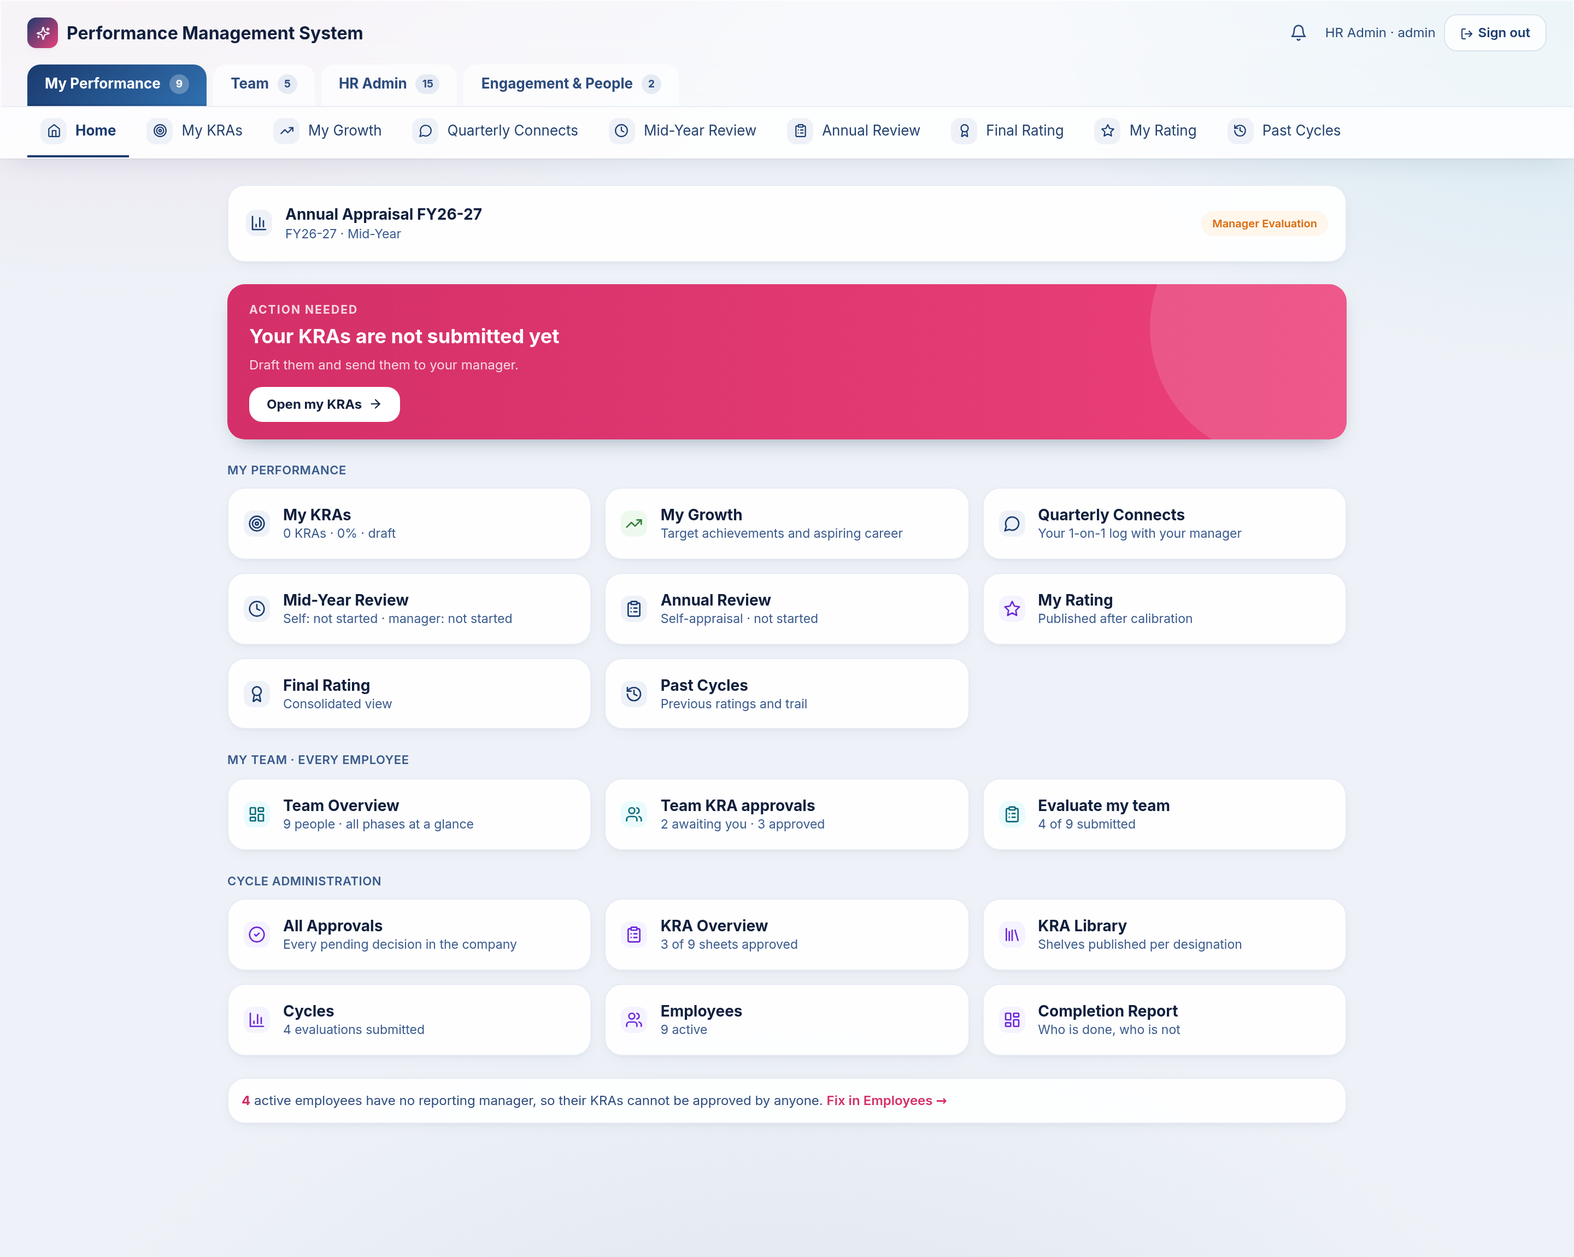
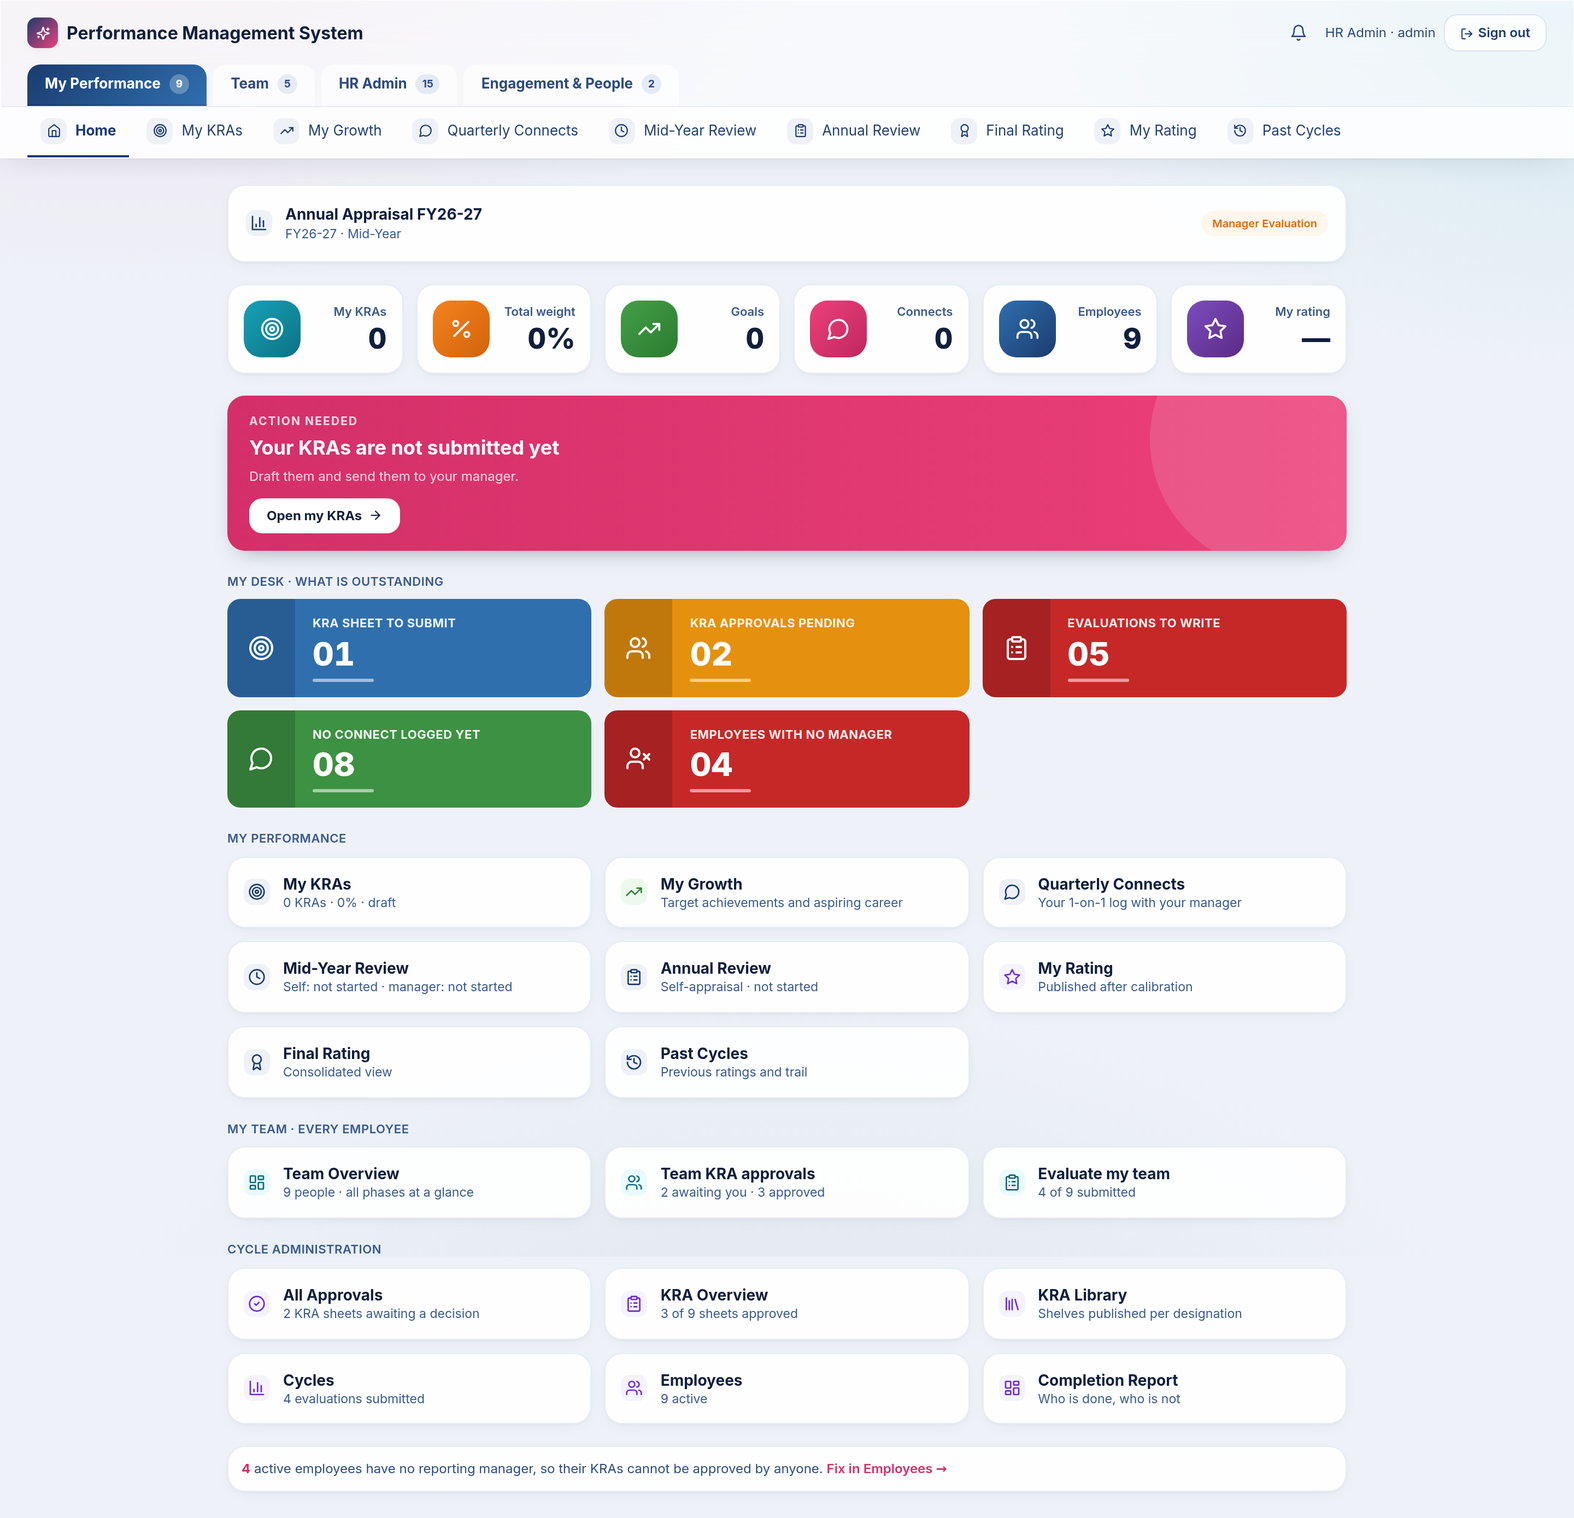
Rebuild the dashboard to the client's reference: stat strip and desk tiles
Asked for with a screenshot of their Humanware HRMS dashboard — a row of
stat cards led by big saturated icon squares, then solid colour blocks
each carrying one count. Same shape here, in the product's own palette.

Three bands now:

  - A six-card stat strip. Your own numbers, then your team's, then the
    company's — the same widening scope the rest of the page uses, so
    the row does not change meaning halfway across.
  - The action banner, unchanged: the one thing waiting on you.
  - "My desk", the solid colour blocks. A tile only exists when its
    count does, so an empty desk means an empty desk. The row is never
    padded with zeroes to look busy, which is the failure mode of every
    dashboard that shows six tiles reading 00.

EVERY NUMBER IS A REAL COUNT, traceable to rows. Nothing is decorative.
New queries in home.js back the ones that did not exist yet: growth
goals (total and complete), connects logged, open connect action items,
reports nobody has had a single 1-on-1 with, and KRA sheets submitted
and still undecided. The scoping rules are unchanged and retested — the
employee response carries no team or company numbers at all.

Connects are counted WITHOUT a cycle filter, deliberately: pms.connects
has no cycle_id and this tenant's cycle has no opens_at/closes_at to
filter held_at against. They are labelled "logged", not "this cycle".
Inventing a window would have put a wrong number on a dashboard people
make decisions from.
[…]

diff --git a/frontend/src/pages/HomePage.jsx b/frontend/src/pages/HomePage.jsx
@@ -4,6 +4,7 @@ import { api } from '../utils/api';
 import {
   Target, TrendingUp, MessageCircle, Clock, ClipboardList, Award, Star, History,
   LayoutDashboard, Users, CheckCircle2, Library, BarChart3, ArrowRight, Lock,
+  Percent, ListChecks, UserX, FileWarning,
 } from 'lucide-react';
 
 // The landing screen.
@@ -12,6 +13,13 @@ import {
 // whatever you owed. This leads with the one thing waiting on you and
 // offers everything else as links, so the product answers "what now?"
 // before it answers "where is X?".
+//
+// Laid out to a reference the client sent (their Humanware HRMS
+// dashboard): a strip of stat cards, then solid colour blocks for what is
+// pending, then the quick links. Every number on it is a real count from
+// the database — there is no filler tile. A dashboard that shows a number
+// nobody can trace is worse than one that shows nothing, because people
+// make decisions off it.
 //
 // Tiles are NOT hidden when their phase has not arrived — they say when
 // they open. A tile that vanishes makes people ask whether they have lost
@@ -23,6 +31,37 @@ const TONE = {
   todo:   'from-amber2-600 to-amber2-500',
   clear:  'from-leaf-600 to-leaf-500',
 };
+
+// A stat card: one number, one label, one saturated icon square.
+function Stat({ icon: Icon, hue, n, label, to }) {
+  const body = (
+    <>
+      <span className={`stat-i si-${hue}`}><Icon size={22} /></span>
+      <span className="stat-t">
+        <span className="stat-l">{label}</span>
+        <span className="stat-n">{n}</span>
+      </span>
+    </>
+  );
+  return to ? <NavLink to={to} className="stat hover:shadow-glass">{body}</NavLink>
+            : <div className="stat">{body}</div>;
+}
+
+// A desk tile: a solid colour block carrying one count. Only rendered for
+// things that are genuinely OUTSTANDING, so an empty desk means an empty
+// desk — the row is not padded out with zeroes to look busy.
+function Desk({ icon: Icon, hue, n, label, to }) {
+  return (
+    <NavLink to={to} className={`deskt dk-${hue}`}>
+      <span className="deskt-i"><Icon size={24} /></span>
+      <span className="deskt-b">
+        <span className="deskt-l">{label}</span>
+        <span className="deskt-n">{String(n).padStart(2, '0')}</span>
+        <span className="deskt-r" />
+      </span>
+    </NavLink>
+  );
+}
 
 function Tile({ to, icon: Icon, title, sub, hue = 'navy', locked }) {
   const body = (
@@ -69,6 +108,30 @@ export default function HomePage() {
   const phase = cycle ? cycle.phase : null;
   const kraStatus = me.kra ? me.kra.status : 'not started';
   const evalOpen = phase === 'manager_eval' || phase === 'hod_eval';
+  const goals = me.goals || {};
+  const connects = me.connects || {};
+
+  // What is OUTSTANDING, in the order it blocks people. Built as a list so
+  // a tile only exists when its count does — see Desk above.
+  const desk = [];
+  if (me.kra && me.kra.status === 'returned')
+    desk.push({ key: 'ret', icon: FileWarning, hue: 'rose', n: 1, label: 'KRA returned to you', to: '/my/kras' });
+  else if (!me.kra || ['draft', 'not_started'].includes(me.kra.status))
+    desk.push({ key: 'kra', icon: Target, hue: 'navy', n: 1, label: 'KRA sheet to submit', to: '/my/kras' });
+  if (phase === 'mid_year_review' && (!me.midyear || me.midyear.self_status !== 'submitted'))
+    desk.push({ key: 'mid', icon: Clock, hue: 'lagoon', n: 1, label: 'Mid-year pending', to: '/my/midyear' });
+  if (phase === 'self_appraisal' && (!me.appraisal || me.appraisal.status !== 'submitted'))
+    desk.push({ key: 'sa', icon: ClipboardList, hue: 'violet', n: 1, label: 'Self-appraisal pending', to: '/my/self-appraisal' });
+  if (connects.open_actions > 0)
+    desk.push({ key: 'act', icon: ListChecks, hue: 'pink', n: connects.open_actions, label: 'Connect actions open', to: '/team/connects' });
+  if (team && team.kra_pending > 0)
+    desk.push({ key: 'tk', icon: Users, hue: 'amber', n: team.kra_pending, label: 'KRA approvals pending', to: '/team/kra-sheets' });
+  if (team && evalOpen && team.reports > team.evals_done)
+    desk.push({ key: 'te', icon: ClipboardList, hue: 'rose', n: team.reports - team.evals_done, label: 'Evaluations to write', to: '/team/eval' });
+  if (team && team.no_connect > 0)
+    desk.push({ key: 'tc', icon: MessageCircle, hue: 'leaf', n: team.no_connect, label: 'No connect logged yet', to: '/team/connects' });
+  if (admin && admin.no_manager > 0)
+    desk.push({ key: 'nm', icon: UserX, hue: 'rose', n: admin.no_manager, label: 'Employees with no manager', to: '/admin/directory' });
 
   return (
     <div className="space-y-5 max-w-5xl mx-auto">
@@ -84,6 +147,31 @@ export default function HomePage() {
           <span className="chip bg-amber2-50 text-amber2-600 ml-auto">{PHASE_LABEL[phase] || phase}</span>
         </div>
       )}
+
+      {/* The stat strip. Your own numbers first, then your team's, then the
+          company's — the same order of widening scope the rest of the page
+          uses, so the row does not change meaning halfway across. */}
+      <div className="grid grid-cols-2 sm:grid-cols-3 lg:grid-cols-6 gap-3">
+        <Stat icon={Target} hue="lagoon" to="/my/kras"
+          n={me.kra ? me.kra.kra_count : 0} label="My KRAs" />
+        <Stat icon={Percent} hue="amber" to="/my/kras"
+          n={`${me.kra ? me.kra.total_weight : 0}%`} label="Total weight" />
+        <Stat icon={TrendingUp} hue="leaf" to="/my/growth"
+          n={goals.total || 0} label="Goals" />
+        <Stat icon={MessageCircle} hue="pink" to="/team/connects"
+          n={connects.logged || 0} label="Connects" />
+        {/* Someone with no reports gets their open action items here
+            instead. The first cut put "Mid-year done" in this slot, which
+            rendered a yes/no as the number 0 sitting in a row of counts —
+            unreadable. Every card in this strip is a count of things. */}
+        {team
+          ? <Stat icon={Users} hue="navy" to="/team/overview" n={team.reports}
+              label={team.scope === 'all_employees' ? 'Employees' : 'My reports'} />
+          : <Stat icon={ListChecks} hue="navy" to="/team/connects"
+              n={connects.open_actions || 0} label="Open actions" />}
+        <Stat icon={Star} hue="violet" to="/my/rating"
+          n={me.published ? me.published.final_rating : '—'} label="My rating" />
+      </div>
 
       {/* The one thing waiting on this person. A list of five things you
           might do is a list nobody reads, so the server picks one. */}
@@ -103,13 +191,22 @@ export default function HomePage() {
         </div>
       </div>
 
+      {desk.length > 0 && (
+        <div className="space-y-2">
+          <p className="lbl mb-0">My desk · what is outstanding</p>
+          <div className="grid sm:grid-cols-2 lg:grid-cols-3 gap-3">
+            {desk.map(x => <Desk key={x.key} {...x} />)}
+          </div>
+        </div>
+      )}
+
       <Section label="My performance">
         <Tile to="/my/kras" icon={Target} title="My KRAs" hue="navy"
           sub={me.kra ? `${me.kra.kra_count} KRAs · ${me.kra.total_weight}% · ${kraStatus}` : 'Not started'} />
         <Tile to="/my/growth" icon={TrendingUp} title="My Growth" hue="leaf"
-          sub="Target achievements and aspiring career" />
+          sub={goals.total ? `${goals.done} of ${goals.total} goals complete · ${goals.status}` : 'Target achievements and aspiring career'} />
         <Tile to="/team/connects" icon={MessageCircle} title="Quarterly Connects" hue="navy"
-          sub="Your 1-on-1 log with your manager" />
+          sub={connects.logged ? `${connects.logged} logged · ${connects.open_actions || 0} actions open` : 'Your 1-on-1 log with your manager'} />
         <Tile to="/my/midyear" icon={Clock} title="Mid-Year Review" hue="navy"
           sub={me.midyear ? `Self: ${me.midyear.self_status.replace('_', ' ')} · manager: ${me.midyear.manager_status.replace('_', ' ')}` : 'Not started'} />
         <Tile to="/my/self-appraisal" icon={ClipboardList} title="Annual Review" hue="navy"
@@ -139,7 +236,7 @@ export default function HomePage() {
       {admin && (
         <Section label="Cycle administration">
           <Tile to="/admin/approvals" icon={CheckCircle2} title="All Approvals" hue="violet"
-            sub="Every pending decision in the company" />
+            sub={admin.kra_awaiting ? `${admin.kra_awaiting} KRA sheets awaiting a decision` : 'Every pending decision in the company'} />
           <Tile to="/admin/kra-overview" icon={ClipboardList} title="KRA Overview" hue="violet"
             sub={`${admin.kra_approved} of ${admin.kra_sheets} sheets approved`} />
           <Tile to="/admin/kra-library" icon={Library} title="KRA Library" hue="violet"
@@ -154,7 +251,8 @@ export default function HomePage() {
       )}
 
       {/* Stated, not hidden: these block real people from finishing, and
-          the person who can fix them is reading this page. */}
+          the person who can fix them is reading this page. Also a desk
+          tile above — this line carries the WHY, which a tile cannot. */}
       {admin && admin.no_manager > 0 && (
         <div className="card p-3 text-xs text-navy-500 border-l-4 border-brand-500">
           <b className="text-brand-600">{admin.no_manager}</b> active {admin.no_manager === 1 ? 'employee has' : 'employees have'} no

diff --git a/server/modules/performance/home.js b/server/modules/performance/home.js
@@ -96,6 +96,29 @@ async function home(user) {
     `SELECT final_rating, rating_label FROM pms.employee_performance_history
       WHERE tenant_id=$1 AND cycle_id=$2 AND employee_id=$3`, [t, c.id, user.id]);
 
+  // The numbers behind the stat strip. All about THIS person, so no
+  // permission gate is needed — but they are still tenant-scoped, because
+  // every query in this file is.
+  const goals = await one(
+    `SELECT p.status,
+            (SELECT count(*)::int FROM pms.development_goals g WHERE g.plan_id = p.id) AS total,
+            (SELECT count(*)::int FROM pms.development_goals g
+              WHERE g.plan_id = p.id AND coalesce(g.progress_pct,0) >= 100) AS done
+       FROM pms.development_plans p
+      WHERE p.tenant_id=$1 AND p.cycle_id=$2 AND p.employee_id=$3`, [t, c.id, user.id]);
+
+  // Connects are NOT scoped to the cycle: pms.connects has no cycle_id, and
+  // this tenant's cycle has no opens_at/closes_at to filter held_at against.
+  // Counting them all and labelling them "logged" is the honest version;
+  // inventing a window would put a wrong number on the dashboard.
+  const connects = await one(
+    `SELECT count(*)::int AS logged,
+            max(held_at) AS last_held,
+            (SELECT count(*)::int FROM pms.connect_action_items a
+               JOIN pms.connects c2 ON c2.id = a.connect_id
+              WHERE c2.tenant_id=$1 AND c2.employee_id=$2 AND NOT a.done) AS open_actions
+       FROM pms.connects WHERE tenant_id=$1 AND employee_id=$2`, [t, user.id]);
+
   // The team block, only for someone who actually has reports — a manager
   // by title with nobody under them should not be shown an empty console.
   let team = null;
@@ -112,7 +135,18 @@ async function home(user) {
          LEFT JOIN pms.kra_sheets s ON s.cycle_id=$2 AND s.employee_id=e.id
          LEFT JOIN pms.manager_evaluations me ON me.cycle_id=$2 AND me.employee_id=e.id
         WHERE e.tenant_id=$1 AND e.status='active' ${scope}`, params);
-    if (r && r.reports > 0) team = { ...r, scope: wide ? 'all_employees' : 'my_reports' };
+    if (r && r.reports > 0) {
+      // Reports nobody has had a single 1-on-1 with. A count of connects
+      // held says nothing; a count of people MISSED is the actionable half.
+      const miss = await one(
+        `SELECT count(*)::int AS no_connect FROM core.employees e
+          WHERE e.tenant_id=$1 AND e.status='active' ${wide ? '' : 'AND e.manager_id = $2'}
+            AND NOT EXISTS (SELECT 1 FROM pms.connects k
+                             WHERE k.tenant_id=$1 AND k.employee_id=e.id)`,
+        wide ? [t] : [t, user.id]);
+      team = { ...r, no_connect: miss ? miss.no_connect : 0,
+               scope: wide ? 'all_employees' : 'my_reports' };
+    }
   }
 
   // The admin block. Counts across the whole company, so pms_admin only.
@@ -122,6 +156,7 @@ async function home(user) {
       `SELECT (SELECT count(*)::int FROM core.employees WHERE tenant_id=$1 AND status='active') AS employees,
               (SELECT count(*)::int FROM pms.kra_sheets WHERE tenant_id=$1 AND cycle_id=$2 AND status='approved') AS kra_approved,
               (SELECT count(*)::int FROM pms.kra_sheets WHERE tenant_id=$1 AND cycle_id=$2) AS kra_sheets,
+              (SELECT count(*)::int FROM pms.kra_sheets WHERE tenant_id=$1 AND cycle_id=$2 AND status='submitted') AS kra_awaiting,
               (SELECT count(*)::int FROM pms.manager_evaluations WHERE tenant_id=$1 AND cycle_id=$2 AND status='submitted') AS evals_submitted,
               (SELECT count(*)::int FROM core.employees e WHERE e.tenant_id=$1 AND e.status='active'
                  AND e.manager_id IS NULL) AS no_manager`,
@@ -130,7 +165,7 @@ async function home(user) {
 
   return {
     cycle: { id: c.id, name: c.name, phase: c.phase, cycle_type: c.cycle_type, fiscal_year: c.fiscal_year },
-    me: { kra, midyear, appraisal, published },
+    me: { kra, midyear, appraisal, published, goals, connects },
     team, admin,
     action: nextAction({ phase: c.phase, kra, midyear, appraisal, team,
                          teamPending: team ? team.kra_pending : 0 }),

diff --git a/frontend/src/app.css b/frontend/src/app.css
@@ -117,3 +117,49 @@ body {
 .navico-lagoon { @apply bg-lagoon-50 text-lagoon-700; }
 .navico-violet { @apply bg-violet-50 text-violet-700; }
 .navico-leaf { @apply bg-leaf-50 text-leaf-600; }
+
+/* ---- Dashboard: stat strip and desk tiles --------------------------------
+   Built to a reference the client sent (their Humanware HRMS dashboard): a
+   row of white stat cards each led by a big saturated icon square, then a
+   grid of SOLID colour blocks carrying one number each. The colour is the
+   index — you find "the orange one" before you have read a single word —
+   so each metric keeps its hue everywhere it appears on this page. */
+.stat { @apply bg-white/90 border border-navy-100/70 rounded-2xl shadow-card
+  p-3.5 flex items-center gap-3; }
+/* Label above, number below, both right-aligned against the icon — the
+   reference's arrangement, and it reads as one column of figures across
+   the strip instead of six ragged left edges. */
+.stat-t { @apply min-w-0 flex-1 text-right; }
+/* No truncate: six cards across 1440px left "Growth goals" reading
+   "Growth go…". A label that clips is a label that lies. It wraps, and
+   the grid stretches every card to match. */
+.stat-l { @apply block text-[11px] font-semibold text-navy-400 leading-tight; }
+.stat-n { @apply block text-[26px] font-extrabold leading-none text-navy-900 tabular-nums mt-1; }
+/* 52px, not the nav's 24px: at a glance from across a desk this row is the
+   thing people navigate by. */
+.stat-i { @apply w-[52px] h-[52px] rounded-2xl flex items-center justify-center
+  shrink-0 text-white; }
+.si-lagoon { background: linear-gradient(135deg, #17a2b8, #0d7183); }
+.si-amber  { background: linear-gradient(135deg, #f5821f, #d2630a); }
+.si-leaf   { background: linear-gradient(135deg, #43a047, #2c7a30); }
+.si-pink   { background: linear-gradient(135deg, #ec407a, #c02760); }
+.si-rose   { background: linear-gradient(135deg, #e11d48, #9f1239); }
+.si-navy   { background: linear-gradient(135deg, #2f6fae, #1b3b6f); }
+.si-violet { background: linear-gradient(135deg, #7c4dbe, #5b2a86); }
+
+/* The desk tile. A darker icon panel on the left, the count large on the
+   right, and a short rule under the number — straight from the reference. */
+.deskt { @apply rounded-xl overflow-hidden flex text-white text-left transition-transform; }
+.deskt:hover { transform: translateY(-2px); }
+.deskt-i { @apply w-[62px] shrink-0 flex items-center justify-center; background: rgba(0,0,0,0.16); }
+.deskt-b { @apply flex-1 px-4 py-3.5 min-w-0; }
+.deskt-l { @apply block text-[11px] font-bold uppercase tracking-wide truncate; color: rgba(255,255,255,0.92); }
+.deskt-n { @apply block text-[30px] font-extrabold leading-none mt-1 tabular-nums; }
+.deskt-r { @apply block h-[3px] w-14 mt-2 rounded-full; background: rgba(255,255,255,0.55); }
+.dk-navy   { background: #2f6fae; }
+.dk-amber  { background: #e5900f; }
+.dk-rose   { background: #c62828; }
+.dk-leaf   { background: #3d9142; }
+.dk-lagoon { background: #17a2b8; }
+.dk-violet { background: #7c4dbe; }
+.dk-pink   { background: #ec407a; }

diff --git a/server/test/home.test.js b/server/test/home.test.js
@@ -155,6 +155,45 @@ test('someone with no KRA sheet row at all is told to start, not told they are c
   assert.equal(nextAction({ phase: 'self_appraisal', kra: { status: 'approved' }, appraisal: null, teamPending: 0 }).kind, 'appraisal_due');
 });
 
+test('the dashboard numbers are real counts, and stay scoped to the caller', { skip }, async () => {
+  // The stat strip and the coloured desk tiles are all driven from this
+  // one response. A dashboard number nobody can trace is worse than no
+  // number, so each one is asserted against rows put in here.
+  const plan = (await db.query(
+    `INSERT INTO pms.development_plans (tenant_id,cycle_id,employee_id,manager_id,status)
+     VALUES ($1,$2,$3,$4,'approved') RETURNING id`, [tenantId, cycleId, empId, mgrId])).rows[0].id;
+  await db.query(
+    `INSERT INTO pms.development_goals (tenant_id,plan_id,title,progress_pct)
+     VALUES ($1,$2,'Ship the importer',100), ($1,$2,'Mentor a junior',40)`, [tenantId, plan]);
+  const con = (await db.query(
+    `INSERT INTO pms.connects (tenant_id,manager_id,employee_id,held_at,notes)
+     VALUES ($1,$2,$3,now(),'first 1-on-1') RETURNING id`, [tenantId, mgrId, empId])).rows[0].id;
+  await db.query(
+    `INSERT INTO pms.connect_action_items (tenant_id,connect_id,description,done)
+     VALUES ($1,$2,'Write the design note',false), ($1,$2,'Book the training',true)`, [tenantId, con]);
+
+  const { body } = await get('/pms/home', tok.employee);
+  assert.equal(body.me.goals.total, 2);
+  assert.equal(body.me.goals.done, 1, 'only the 100% one counts as done');
+  assert.equal(body.me.goals.status, 'approved');
+  assert.equal(body.me.connects.logged, 1);
+  assert.equal(body.me.connects.open_actions, 1, 'the completed action is not outstanding');
+
+  // The manager has one report and has now held a connect with them, so
+  // nobody is un-met. The admin sees the two people nobody has met.
+  const mgr = await get('/pms/home', tok.manager);
+  assert.equal(mgr.body.team.no_connect, 0);
+  const adm = await get('/pms/home', tok.admin);
+  assert.equal(adm.body.team.scope, 'all_employees');
+  assert.equal(adm.body.team.no_connect, 2, 'the admin and the manager have had none');
+  assert.equal(adm.body.admin.kra_awaiting, 1, 'one sheet is submitted and undecided');
+
+  // And none of it leaks: the employee gets no team or company numbers at
+  // all, however interesting the counts are.
+  assert.equal(body.team, null);
+  assert.equal(body.admin, null);
+});
+
 test('in evaluation season a manager is told about evaluations, not silence', { skip }, async () => {
   // The KRA queue is empty by manager_eval (sheets are approved), so the
   // team_pending branch cannot speak for this phase. Without its own
